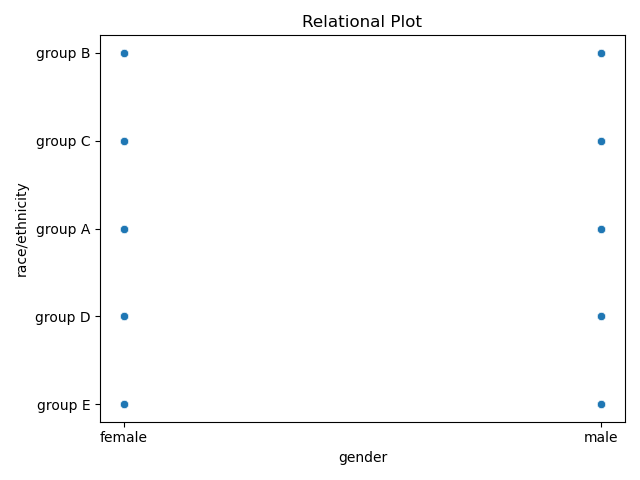
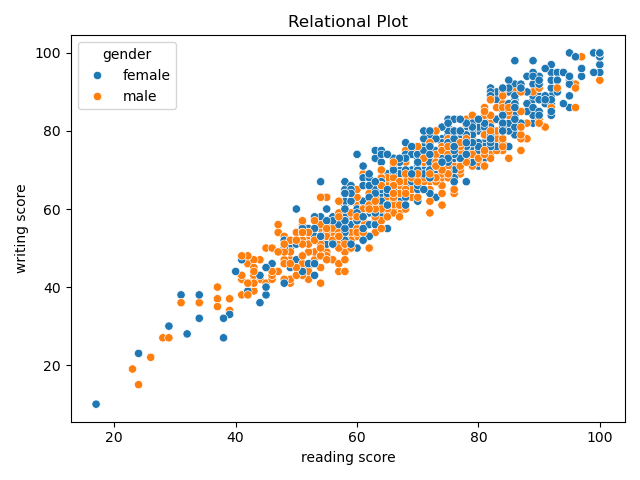
Add files via upload

diff --git a/statistics_and_trends_1.py b/statistics_and_trends_1.py
@@ -1,0 +1,137 @@
+"""
+Statistics and Trends Assignment
+Student Name: Sukesh Kumar Eddagiri
+Student ID: 25036788
+Dataset: data.csv
+"""
+
+from corner import corner
+import matplotlib.pyplot as plt
+import numpy as np
+import pandas as pd
+import scipy.stats as ss
+import seaborn as sns
+
+
+def plot_relational_plot(df):
+    #Creates and saves a Relational plot.
+    fig, ax = plt.subplots()
+    sns.scatterplot(data=df, x=df.columns[0], y=df.columns[1], ax=ax)
+
+    ax.set_title('Relational Plot')
+    plt.tight_layout()
+    plt.savefig('relational_plot.png')
+    plt.close()
+
+
+def plot_categorical_plot(df):
+    #Creates and saves a Categorical plot.
+   
+    fig, ax = plt.subplots()
+    categorical_col = df.select_dtypes(include=['object']).columns[0]
+    sns.countplot(data=df, x=categorical_col, ax=ax)
+
+    ax.set_title('Categorical Plot')
+    plt.xticks(rotation=45)
+    plt.tight_layout()
+    plt.savefig('categorical_plot.png')
+    plt.close()
+
+
+def plot_statistical_plot(df):
+    #Creates and saves a Statistical distribution plot.
+    
+    fig, ax = plt.subplots()
+    # Histogram for first numerical column
+    numerical_col = df.select_dtypes(include=np.number).columns[0]
+    sns.histplot(df[numerical_col], kde=True, ax=ax)
+
+    ax.set_title('Statistical Plot')
+    plt.tight_layout()
+    plt.savefig('statistical_plot.png')
+    plt.close()
+
+
+def statistical_analysis(df, col: str):
+    """
+    Calculates statistical moments for a given column.
+    Returns:
+        tuple: mean, std deviation, skewness, excess kurtosis
+    """
+    data = df[col].dropna()
+
+    mean = np.mean(data)
+    stddev = np.std(data, ddof=1)
+    skew = ss.skew(data)
+    excess_kurtosis = ss.kurtosis(data)
+
+    return mean, stddev, skew, excess_kurtosis
+
+
+def preprocessing(df):
+    """
+    Performs the basic preprocessing and also exploratory analysis.
+    """
+    print("The first 5 rows:")
+    print(df.head())
+
+    print("\nSummary of the statistics:")
+    print(df.describe())
+
+    print("\nThe Correlation matrix:")
+    print(df.corr(numeric_only=True))
+
+    # Drop missing values
+    df = df.dropna()
+
+    return df
+
+
+def writing(moments, col):
+    """
+    Prints the interpretation of statistical results.
+    """
+    print(f'\nFor the attribute {col}:')
+    print(f'\nMean = {moments[0]:.2f}, '
+          f'\nStandard Deviation = {moments[1]:.2f}, '
+          f'\nSkewness = {moments[2]:.2f}, and '
+          f'\nExcess Kurtosis = {moments[3]:.2f}.')
+
+    skew = moments[2]
+    kurt = moments[3]
+
+    if skew > 0:
+        skewness_desc = "right skewed"
+    elif skew < 0:
+        skewness_desc = "left skewed"
+    else:
+        skewness_desc = "not skewed"
+
+    if kurt > 0:
+        kurtosis_desc = "leptokurtic"
+    elif kurt < 0:
+        kurtosis_desc = "platycurtic"
+    else:
+        kurtosis_desc = "mesokurtic"
+
+    print(f'The data was {skewness_desc} and {kurtosis_desc}.')
+
+
+def main():
+    df = pd.read_csv('data.csv')
+
+    df = preprocessing(df)
+
+    # Choose a numerical column for analysis
+    col = df.select_dtypes(include=np.number).columns[0]
+
+    plot_relational_plot(df)
+    plot_statistical_plot(df)
+    plot_categorical_plot(df)
+
+    moments = statistical_analysis(df, col)
+    writing(moments, col)
+
+
+if __name__ == '__main__':
+    main()
